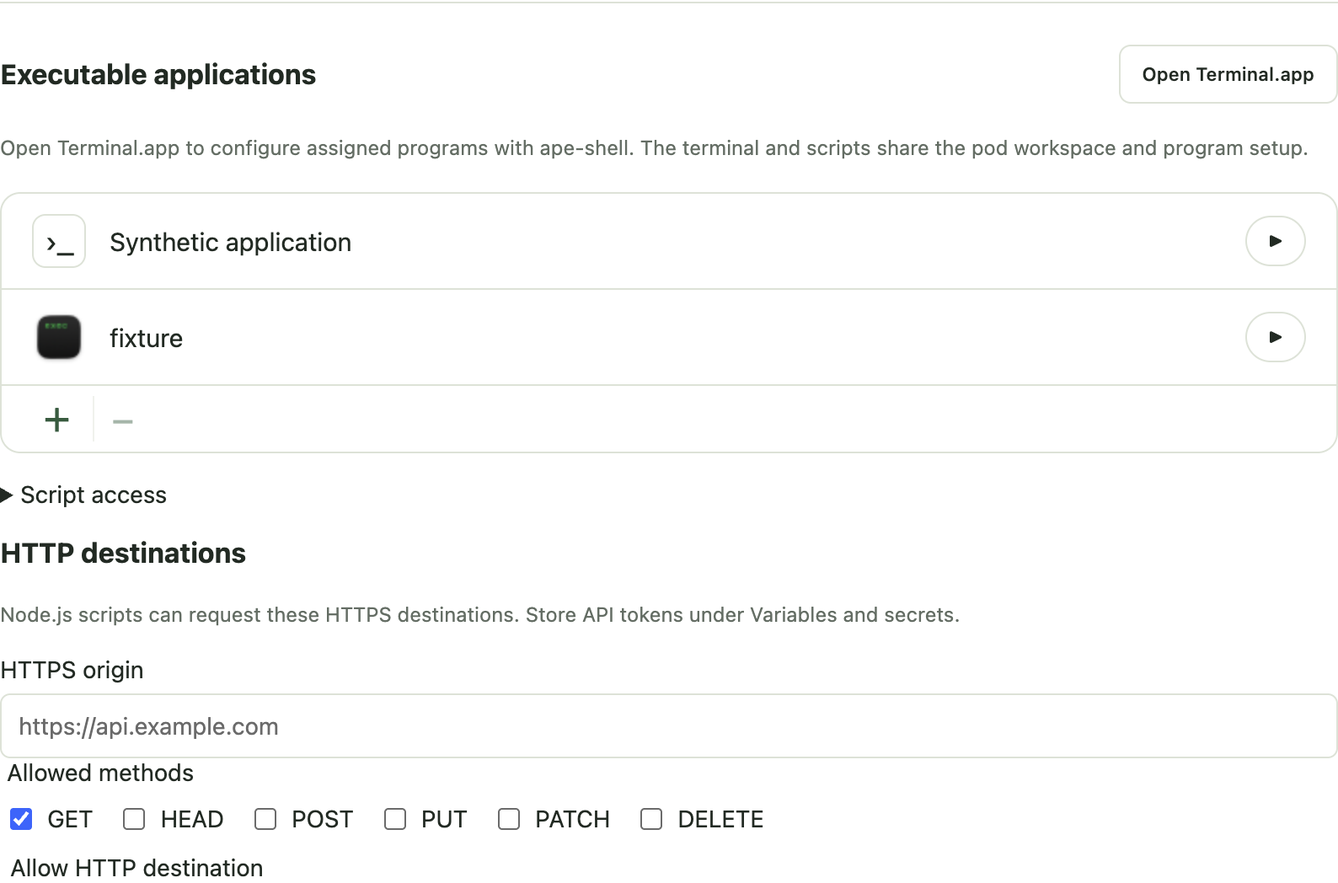
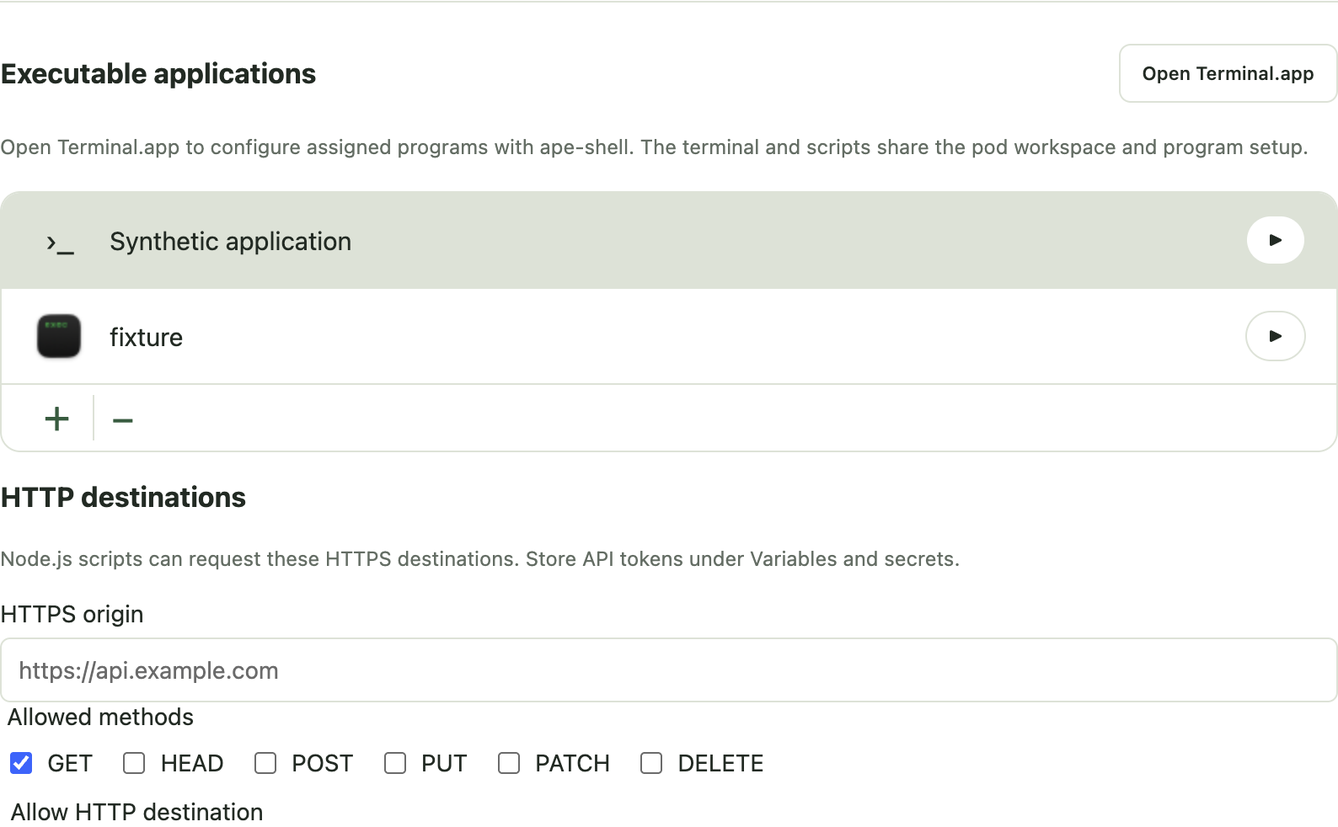
fix(pods): simplify application permissions controls

diff --git a/apps/openape-pods/src/renderer/ProgramPermissions.vue b/apps/openape-pods/src/renderer/ProgramPermissions.vue
@@ -4,10 +4,8 @@ import type { ResourceState, PodResource } from '../contracts/resources'
 import { parseTerminalView } from '../contracts/programs'
 import type { ProgramCommand, TerminalView } from '../contracts/programs'
 import { t, diagnostic } from './i18n'
-import ScriptAccess from './ScriptAccess.vue'
 
 export default defineComponent({
-  components: { ScriptAccess },
   props: { podId: { type: String, required: true }, state: { type: Object as () => ResourceState, required: true } },
   emits: ['updated'],
   data() { return { selectedApplication: '', busy: false, openingShell: false, error: '', launch: null as TerminalView | null, pollTimer: undefined as ReturnType<typeof setTimeout> | undefined, disposed: false, origin: '', methods: ['GET'] as string[] } },
@@ -111,38 +109,6 @@ export default defineComponent({
         </button>
       </footer>
     </div>
-    <details v-if="selected" :key="selected.id" class="application-details">
-      <summary>{{ t('Application details') }} · {{ selected.name }}</summary>
-      <p class="resource-path">
-        {{ selected.configuration.bundlePath || selected.configuration.executable }}
-      </p>
-      <p v-if="selected.configuration.bundlePath" class="muted">
-        {{ t('The application starts with the pod workspace and a private application HOME. Some macOS apps use global profiles or the login Keychain; check the account in the application itself.') }}
-      </p>
-      <h4>{{ t('Allowed commands') }}</h4>
-      <p v-if="!(selected.configuration.grants as unknown[])?.length">
-        {{ t('No commands allowed yet.') }}
-      </p>
-      <ul>
-        <li v-for="grant in (selected.configuration.grants as { permission: string, display: string }[])" :key="grant.permission">
-          {{ grant.display }}
-        </li>
-      </ul>
-      <details class="script-reference">
-        <summary>{{ t('Use in script') }}</summary><code>{{ `context.tools.invoke({ application: ${JSON.stringify(selected.name)}, argv: [...] })` }}</code>
-      </details>
-      <div class="actions">
-        <button class="text-button" :disabled="busy" @click="act({ type: 'replace', podId, applicationId: selected.id, epoch: state.epoch })">
-          {{ t('Select installed replacement…') }}
-        </button>
-        <button class="text-button" :disabled="busy" @click="act({ type: 'importState', podId, applicationId: selected.id, epoch: state.epoch })">
-          {{ t('Import existing setup') }}
-        </button>
-      </div>
-    </details>
-    <details class="script-permissions">
-      <summary>{{ t('Script access') }}</summary><ScriptAccess :key="state.epoch" :pod-id="podId" kind="tools" />
-    </details>
     <h3>{{ t('HTTP destinations') }}</h3>
     <p class="muted">
       {{ t('Node.js scripts can request these HTTPS destinations. Store API tokens under Variables and secrets.') }}
@@ -178,19 +144,14 @@ export default defineComponent({
 .application-toolbar { display:flex; align-items:center; padding:6px 12px; gap:0; }
 .application-toolbar button { font-size:23px; line-height:1; padding:2px 10px; margin:0; }
 .application-toolbar button + button { border-left:1px solid var(--border); border-radius:0; }
-.application-details { margin:10px 0 18px; font-size:13px; }
 .empty-applications { padding:10px 18px; }
 .launch-status { border:1px solid var(--border); border-radius:10px; padding:12px; margin:12px 0; }
 .launch-status pre { white-space:pre-wrap; overflow-wrap:anywhere; max-height:180px; overflow:auto; }
-header, .actions { display:flex; flex-wrap:wrap; gap:10px; align-items:center; justify-content:space-between; }
-.actions { justify-content:flex-start; margin-top:12px; }
+header { display:flex; flex-wrap:wrap; gap:10px; align-items:center; justify-content:space-between; }
 label { display:grid; gap:6px; margin-top:12px; }
 input, select { min-width:0; width:100%; box-sizing:border-box; padding:10px; border:1px solid var(--border); border-radius:6px; background:var(--surface); color:inherit; font:inherit; }
-.actions select { width:auto; }
 fieldset { border:0; padding:10px 0; display:flex; flex-wrap:wrap; gap:14px; }
 fieldset label { display:flex; margin:0; align-items:center; }
 fieldset input { width:auto; }
-.script-reference code { display:block; overflow-wrap:anywhere; padding:10px 0; user-select:all; }
-.resource-path { overflow-wrap:anywhere; font-size:12px; opacity:.7; }
 .http-form { margin-top:14px; }
 </style>

diff --git a/apps/openape-pods/test/programs/ui.test.ts b/apps/openape-pods/test/programs/ui.test.ts
@@ -13,7 +13,6 @@ it('opens one external pod terminal without an embedded console or argument form
   expect(wrapper.text()).toContain('Terminal.app')
   expect(wrapper.text()).not.toContain('Signed in')
   await wrapper.get('.application-select').trigger('click')
-  expect(wrapper.get('code').text()).toContain('application: "Synthetic CLI"')
   await wrapper.findAll('button').find(button => button.text() === 'Open Terminal.app')!.trigger('click')
   await flushPromises()
   expect(wrapper.find('pod-console-stub').exists()).toBe(false)
@@ -54,7 +53,7 @@ it('keeps terminal launch progress and failures directly beside the launch contr
   wrapper.unmount()
 })
 
-it('starts the selected application with identifiers only and keeps replacement under its details', async () => {
+it('keeps application selection and launch without local grant details or script-access controls', async () => {
   const programs = vi.fn(async command => command.type === 'launchStatus' ? null : { sessionId: id, podId, state: 'closed' as const, sequence: 1, output: '', exitCode: 0, error: null })
   window.pods = { ...window.pods, programs }
   const wrapper = mount(ProgramPermissions, { props: { podId, state }, global: { stubs: { ScriptAccess: true } } })
@@ -63,6 +62,10 @@ it('starts the selected application with identifiers only and keeps replacement 
   expect(programs).toHaveBeenCalledWith({ type: 'launch', podId, applicationId: id, epoch: 2 })
   expect(wrapper.find('select').exists()).toBe(false)
   await wrapper.get('.application-select').trigger('click')
-  expect(wrapper.text()).toContain('Select installed replacement')
+  expect(wrapper.get('.application-select').attributes('aria-pressed')).toBe('true')
+  for (const text of ['Allowed commands', 'Read assigned data', 'Use in script', 'Select installed replacement', 'Import existing setup', 'Script access']) expect(wrapper.text()).not.toContain(text)
+  expect(wrapper.find('code').exists()).toBe(false)
+  expect(wrapper.find('script-access-stub').exists()).toBe(false)
+  expect(wrapper.get('button[aria-label="Remove application"]').attributes('disabled')).toBeUndefined()
   wrapper.unmount()
 })

diff --git a/apps/openape-pods/e2e/programs.test.ts b/apps/openape-pods/e2e/programs.test.ts
@@ -190,6 +190,11 @@ it('packaged program UI: exposes the external terminal and reuses application se
     }, [f.assignment.executable, f.assignment.adapterPath])
     await page.getByRole('button', { name: 'Add installed application…', exact: true }).click()
     await page.getByRole('button', { name: 'Open fixture', exact: true }).waitFor()
+    await page.getByRole('button', { name: 'Synthetic application', exact: true }).click()
+    expect(await page.getByText('Allowed commands', { exact: true }).count()).toBe(0)
+    expect(await page.getByText('Script access', { exact: true }).count()).toBe(0)
+    expect(await page.getByRole('button', { name: 'Select installed replacement…', exact: true }).count()).toBe(0)
+    expect(await page.getByRole('button', { name: 'Import existing setup', exact: true }).count()).toBe(0)
     await page.getByRole('button', { name: 'Add installed application…', exact: true }).waitFor()
     await page.locator('.application-card').first().screenshot({ path: resolve('.artifacts/program-permissions-en.png') })
     await page.locator('.program-permissions').screenshot({ path: resolve('.artifacts/external-terminal-en.png') })

diff --git a/apps/openape-pods/src/main/programs/application.ts b/apps/openape-pods/src/main/programs/application.ts
@@ -30,7 +30,7 @@ export function launchDescriptor(cliId: string, name = cliId): string {
 export async function verifyApplicationBundle(definition: ProgramDefinition): Promise<void> {
   try { await stat(definition.executable) }
   catch (error) {
-    if ((error as NodeJS.ErrnoException).code === 'ENOENT') throw new Error('Application is missing. Select its installed replacement in Permissions, then review the script commands.')
+    if ((error as NodeJS.ErrnoException).code === 'ENOENT') throw new Error('Application is missing. Assign an installed application in Permissions, then review the script commands.')
     throw error
   }
   if (!definition.bundlePath) return

diff --git a/apps/openape-pods/docs/handbook.de.md b/apps/openape-pods/docs/handbook.de.md
@@ -168,11 +168,11 @@ Ein unveränderter Editor übernimmt beim erneuten Öffnen den aktuellen gespeic
 
 Berechtigungen enthält Verzeichnis- und Dateizugriffe, ausführbare Anwendungen sowie HTTP-Ziele. Der Arbeitsbereich des Pods ist beschreibbar. Referenzdateien werden als schreibgeschützte Kopien bereitgestellt; ihre Originale bleiben außerhalb des Arbeitsbereichs.
 
-Wähle mit + unter der Anwendungsliste eine installierte macOS-App oder ein CLI. Name und Icon erscheinen mit einem Play-Button. Play startet das gewählte Programm ohne Argumente über ape-shell. Wähle eine Zeile für Details; − entfernt die Zuweisung. Vorhandene apes-Befehlsbeschreibungen werden erkannt; andernfalls wählst du die Beschreibungsdatei aus. Pods liefert diese Anwendungen nicht mit.
+Wähle mit + unter der Anwendungsliste eine installierte macOS-App oder ein CLI. Name und Icon erscheinen mit einem Play-Button. Play startet das gewählte Programm ohne Argumente über ape-shell. Wähle eine Zeile aus und entferne ihre Zuweisung mit −. Vorhandene apes-Befehlsbeschreibungen werden erkannt; andernfalls wählst du die Beschreibungsdatei aus. Pods liefert diese Anwendungen nicht mit.
 
 Terminal.app öffnen steht über der Liste und öffnet ein eigenes macOS-Fenster. Der Starttext zeigt Pod-HOME, Arbeitsverzeichnis und Shell. Rufe dort das zugewiesene CLI mit seinen üblichen Befehlen auf, beispielsweise o365-cli auth login. Die Anwendung verwaltet ihre Anmeldung selbst; Pods zeigt keinen erfundenen Anmeldestatus. Freigaben bestätigst du über OpenApe oder apes grants approve.
 
-Bestehende Einrichtung importieren kopiert eine gewählte Zustandsdatei in den geschützten, verschlüsselten Zustand dieses Pods und dieser Anwendung. Das Original bleibt unverändert. Importiere Token- und Cache-Dateien hier, niemals als Referenzdatei. Das Programm darf seine private Kopie erneuern; Skript und Codex erhalten nur die Programmausgabe. Die App kann nicht automatisch feststellen, ob eine importierte Anmeldung noch gültig ist.
+Grants werden über OpenApe verwaltet und bei der Ausführung geprüft. Berechtigungen zeigt keine statische Liste von Befehlsfreigaben, keine Skriptaufrufe und keine zusätzliche Auswahl von Skriptzugriffen auf Anwendungen. Die Zuweisung einer Anwendung umgeht die Laufzeitprüfung nicht.
 
 HTTP-Ziele erlauben Node.js-Anfragen über context.http.request an einen ausdrücklich zugewiesenen HTTPS-Ursprung mit ausgewählten Methoden. Geheimnisse gehören in Variablen und Geheimnisse. Anfragen folgen keinen Weiterleitungen und erreichen keine privaten Adressen. Derzeit nutzt der Transport IPv4 auf Port 443, ein Zeitlimit von 30 Sekunden und begrenzte Antworten. Berechtigungen werden dem OpenApe-Agenten des Pods zugewiesen.
 
@@ -181,8 +181,6 @@ Das offene Terminal belegt den Pod und pausiert seine Automatik, auch wenn gerad
 ape-shell vermittelt Befehlsfreigaben; es stellt keine Dateisystem-Sandbox bereit. Das Einrichtungsterminal führt freigegebene Befehle mit den Rechten deines Mac-Benutzers aus. Eine breite Sitzungsfreigabe erlaubt entsprechend breite Shell-Befehle. Verwende Vordergrundprogramme; die zuverlässige Beendigung abgekoppelter Hintergrundprozesse ist nicht zugesichert. Automatische Node.js-Skripte behalten zusätzlich ihre macOS-Sandbox, und context.tools.invoke nutzt weiterhin den begrenzten Programm-Broker. Grafische Programme und beliebige Kindprozessbäume sind in diesem Skript-Broker weiterhin nicht unterstützt.
 
 Play startet Apps direkt im Pod-Arbeitsverzeichnis mit einem eigenen Anwendungs-HOME und dem normalen Anmeldeschlüsselbund. Manche Mac-Apps ignorieren HOME oder verwenden ein globales Profil oder eine vorhandene Instanz: Prüfe das Konto in der App. Nur Programme, die den übergebenen Kontext beachten, können ihre Einrichtung zuverlässig teilen. Beende die App normal, um die Einrichtung zu speichern. Abgebrochene Sitzungen behalten den letzten gespeicherten Stand. Der verschlüsselte Zustand ist derzeit auf 4 MB und 128 Dateien begrenzt; große Browserprofile werden damit nicht unterstützt.
-
-Nach einem Programmupdate oder bei einem fehlenden früher mitgelieferten Programm wählst du die Zeile, öffnest Details zur Anwendung und nutzt Installierten Ersatz wählen. Ressourcen-ID und verschlüsselte Einrichtung bleiben erhalten; gespeicherte Befehlsfreigaben werden gelöscht. Die neue Version kann andere Befehle und Zustandsformate nutzen: Prüfe das Skript vor dem Start. Alte o365-pods-Befehle und context.mail-Rezepte benötigen eine Anpassung; das alte Programm wird nicht mehr mitgeliefert.
 
 ![Berechtigungen](images/handbook-permissions-de.png)
 
@@ -259,7 +257,7 @@ Nach Ruhezustand oder Ausfall verarbeitet ein Nachhollauf verbleibende Eingaben 
 
 ## Verbindungen und Mail-Benachrichtigungen
 
-Verbindungen & Einrichtung enthält zwei globale Verbindungen: ChatGPT/Codex für KI-Ausführung und OpenApe für Pod-Identitäten und Grants. Weitere Programme werden in Berechtigungen über das externe Terminal.app-Fenster des Pods oder eine importierte Zustandsdatei angemeldet.
+Verbindungen & Einrichtung enthält zwei globale Verbindungen: ChatGPT/Codex für KI-Ausführung und OpenApe für Pod-Identitäten und Grants. Weitere Programme werden in Berechtigungen über das externe Terminal.app-Fenster des Pods oder die mit Play geöffnete Anwendung angemeldet.
 
 Wähle für einen Mail-Benachrichtigungs-Pod dein installiertes o365-cli unter Berechtigungen und richte es über Terminal.app mit seinen eigenen auth-Befehlen ein. Prüfe vor dem Schreiben des Skripts die Hilfe und die freigegebene apes-Befehlsbeschreibung. Installierte Versionen können vom früheren Prototyp-Protokoll abweichen; o365-cli pods ist nur verwendbar, wenn die ausgewählte Installation es tatsächlich unterstützt.
 
@@ -295,6 +293,6 @@ Syntax- oder Vertragsfehler: Korrigiere das JavaScript und stelle sicher, dass r
 
 Kein automatischer Lauf: Prüfe aktives Skript, aktivierten Zeitplan, Pod-Lebenszyklus, nächsten Zeitpunkt, Hintergrundprozess, Ressourcen, ausstehende Wiederherstellung und ob der Mac wach ist.
 
-Anwendungsaufruf schlägt fehl: Prüfe den exakten Grant und die Programmausgabe in Berechtigungen. Richte dort den eigenen Programmzustand ein oder importiere ihn. Ein leeres Ergebnis belegt nicht, dass alle Quellen gelesen wurden.
+Anwendungsaufruf schlägt fehl: Prüfe den aktuellen Grant in OpenApe und die Ausgabe in Historie. Richte die Anwendung über das Pod-Terminal oder Play ein. Ein leeres Ergebnis belegt nicht, dass alle Quellen gelesen wurden.
 
 Speicherlimit erreicht: Exportiere bei Bedarf eine Sicherung, entferne unerwünschte archivierte Pods über den Bestätigungsablauf, bereinige ungenutzte Dateien oder erhöhe das Limit. Prüfe anschließend die Wiederherstellung, bevor du unterbrochene Arbeit erneut versuchst.

diff --git a/apps/openape-pods/docs/handbook.md b/apps/openape-pods/docs/handbook.md
@@ -168,11 +168,11 @@ Reloading an unchanged editor picks up the current saved source. Saving does not
 
 Permissions contains directory/file access, executable applications and HTTP destinations. The pod workspace is writable. Reference files are delivered as read-only snapshots; their originals remain outside the workspace.
 
-Use + below the application list to select an installed macOS app or CLI. Its name and icon appear with a Play button. Play starts the selected executable without arguments through ape-shell. Select a row to inspect details; use − to remove its assignment. Existing apes CLI descriptors are detected automatically, or you can select the descriptor file. Applications are not bundled with Pods.
+Use + below the application list to select an installed macOS app or CLI. Its name and icon appear with a Play button. Play starts the selected executable without arguments through ape-shell. Select a row and use − to remove its assignment. Existing apes CLI descriptors are detected automatically, or you can select the descriptor file. Applications are not bundled with Pods.
 
 Open Terminal.app opens a separate macOS window above this list. The banner shows the pod HOME, workspace and shell. Run an assigned CLI there using its normal commands, for example o365-cli auth login. Applications manage their own sign-in; Pods does not invent a login-status indicator. Required grants are approved through OpenApe or apes grants approve.
 
-Import existing setup copies a selected state file into protected, encrypted state belonging to this pod and application. The original stays unchanged. Import a token/cache file here, never as a reference snapshot. The program can refresh its private copy; scripts and Codex receive only program output. The app cannot automatically determine whether an imported session remains valid.
+Grants are managed through OpenApe and checked at execution time. Permissions does not display a static command-grant list, script call snippets or a separate application script-access selector. Application assignment does not bypass runtime authorization.
 
 HTTP destinations allow Node.js requests to an explicit HTTPS origin and selected methods through context.http.request. Secrets belong in Variables and secrets. Requests cannot follow redirects or reach private addresses. Current transport uses IPv4 on port 443, a 30-second timeout and bounded responses. Permissions are granted to the pod’s OpenApe agent.
 
@@ -181,8 +181,6 @@ An open terminal holds the pod and pauses automation, including while its prompt
 ape-shell mediates command grants; it does not provide a filesystem sandbox. The setup terminal runs granted commands with your Mac user privileges. A broad session grant permits correspondingly broad shell commands. Use foreground programs; reliable termination of detached background processes is not guaranteed. Automated Node.js scripts retain their additional macOS sandbox, and context.tools.invoke still uses the bounded application broker. Graphical programs and arbitrary child-process trees remain unsupported in that script broker.
 
 Play starts apps directly with the pod workspace and private application HOME, using the normal login Keychain. Some Mac apps ignore HOME or reuse a global profile or existing instance: check the account inside the app. Only programs respecting the supplied context can share setup reliably. Close the app normally to save setup. Interrupted sessions keep the last saved setup. Encrypted state is currently limited to 4 MB and 128 files; large browser profiles are not supported by this storage contract.
-
-When a program is updated or a former bundled path is missing, select the row, expand Application details and choose Select installed replacement. Resource IDs and encrypted setup are preserved; stored command approvals are cleared. The new executable may use different commands or state formats, so review the script before running. Old o365 pods commands and context.mail recipes require migration to the installed program; the old executable is no longer included.
 
 ![Permissions](images/handbook-permissions.png)
 
@@ -259,7 +257,7 @@ After sleep or downtime, one catch-up processes remaining input from saved progr
 
 ## Connections and the mail notification recipe
 
-Connections & setup has two global connections: ChatGPT/Codex for AI execution and OpenApe for pod identities and grants. Other programs authenticate in Permissions, using the pod’s external Terminal.app window or an imported application state file.
+Connections & setup has two global connections: ChatGPT/Codex for AI execution and OpenApe for pod identities and grants. Other programs authenticate in Permissions, using the pod’s external Terminal.app window or the application opened with Play.
 
 For a mail notification pod, select your installed o365-cli in Permissions and configure it through Terminal.app using its own auth commands. Inspect its help and approved apes descriptor before writing the script. Installed versions can differ from the former prototype protocol; do not use o365-cli pods commands unless your selected installation actually supports them.
 
@@ -295,6 +293,6 @@ Syntax or contract errors: correct the JavaScript and ensure run(context) return
 
 No automatic run: check the active script, enabled schedule, pod lifecycle, next-run time, worker status, resource state, queued recovery and whether the Mac is awake.
 
-Application read fails: inspect the exact command grant and program output in Permissions. Set up or import that application’s own state there. An empty result is not proof that all sources were read.
+Application read fails: inspect its current grant in OpenApe and its output in History. Configure the application through the pod terminal or Play. An empty result is not proof that all sources were read.
 
 Storage limit reached: export a backup if needed, remove unwanted archived pods through the confirmation flow, clean unused files or increase the configured limit. Then inspect recovery before retrying interrupted work.

diff --git a/docs/agents/active-work.md b/docs/agents/active-work.md
@@ -5,6 +5,7 @@ still matches live main. Re-read the plan and Git refs at session start.
 
 | Work | Issue / plan | Checkout | Verified evidence | Next step |
 |---|---|---|---|---|
+| Pods simple permissions | [Issue #1354](https://git.openape.ai/openape-ai/openape/issues/1354), owner UI correction September 17 | `pods-conversation`, `feature/issue-1354-simple-permissions`, base `5c48396b` | Remove application details, stored command-grant display, script snippets, import/replacement controls and tool Script access from Permissions. Keep app selection/removal, Play, Terminal and existing runtime authorization. Four component checks pass after a reproducing regression. | Focused native/UI verification, one final merge gate, review and install with unchanged owner data. |
 | Pods installed applications | [Issue #1354](https://git.openape.ai/openape-ai/openape/issues/1354), [authorized continuation](https://plans.openape.ai/teams/01KPV1XN2S4FEGHFVPR3ZZ7VN1/plans/01M2Q8V14XWHSF894NFQF9CFA1) | `pods-conversation`, `feature/issue-1354-installed-applications`, base `82f16e0e` | Production o365 build removed; installed application picker and no-argument Play under the existing owner ape-shell boundary. List follows the owner's macOS screenshot. 15 focused unit checks and 7 packaged/native checks pass, including signed grant allow/deny, no-argument AppKit startup, private setup persistence and absence of bundled o365. DE/EN list screenshots inspected. | Verify, review, package and install with paired rollback. Preserve owner pods and credentials. No live mail/messages/schedules. GUI HOME is not proof of application account isolation. |
 | Pods external ape-shell | [Issue #1354](https://git.openape.ai/openape-ai/openape/issues/1354), [authorized plan](https://plans.openape.ai/teams/01KPV1XN2S4FEGHFVPR3ZZ7VN1/plans/01M2M9YDS92G8GA3T84KQDPBKY) | `pods-conversation`, branch `bugfix/issue-1354-terminal-start-feedback`, base `5179cda7` | PR 53 installed with paired rollback and preserved owner data. Owner terminal click exposed missing production Pod enrollment route (404); tested IdP `5179cda7` deployed with health gate and previous tag `3f07d0db`. Unauthenticated enrollment now correctly returns 401. | Review/ship direct launch progress and inline failure feedback; owner native Terminal.app confirmation remains manual because computer-use tooling excludes it. Bundled o365-cli is historical prototype scope; future tool assignments should use owner-installed executables with preserved program state. No owner task, mail, model, Telegram or schedule activation. |
 | Native issues M0 | [Issue #1356](https://git.openape.ai/openape-ai/openape/issues/1356), [approved plan](https://plans.openape.ai/teams/01KPV1XN2S4FEGHFVPR3ZZ7VN1/plans/01M2A5ZAT63A04PWGVBT5M14MW) | `openape-monorepo.worktrees/native-issues-m0`, branch `feature/issue-1356-native-issues-m0`, base `08b1eaae3f9a129ee4b3c7563ba3803030bed43e` | [Inventory and disposable rehearsal](../operations/native-issues-migration.md): 230 issues, 175 comments, 993 timeline records; issue writes blocked while branch/main pushes and actual Actions succeed. Eight inventory tests, full lint/typecheck and Doctor pass. All 15 local CI steps pass at `.openape/check-results/1789473266340-08b1eaae-all/summary.json`, including 110 Pods native tests. Use `DEVELOPER_DIR=/Library/Developer/CommandLineTools`; default Xcode selection fails on its unaccepted license. | Review the native PR and exact-source checks. M1 starts with repository authorization/storage. Actor mapping, attachment integrity, independent owners, full freeze coverage and legacy-login fragment continuation remain migration gates. No native issue feature or production import in this increment. |

diff --git a/apps/openape-pods/README.md b/apps/openape-pods/README.md
@@ -10,9 +10,11 @@ Play controls, a plus/minus toolbar and one Terminal.app button above it. Play
 starts the verified executable directly through ape-shell with no arguments.
 The application gets the pod workspace and its private application HOME, shared
 with the existing encrypted setup state; Electron's Node-mode variable is removed.
-The default macOS login Keychain stays in use. Application details expose the
-path, grants, state import and installed replacement picker. Replacement preserves
-resource identity and encrypted state while clearing stored command approvals.
+The default macOS login Keychain stays in use. Selecting a row enables removal
+with the minus control. The UI omits command-grant inventories, script snippets,
+application import/replacement controls and the extra tool script-access selector.
+Grants remain checked at execution time; removing these UI controls does not
+change application assignments, stored state or runtime authorization.
 The Play permission includes the executable hash, so replacing its binary cannot
 silently reuse an earlier launch grant.
 
